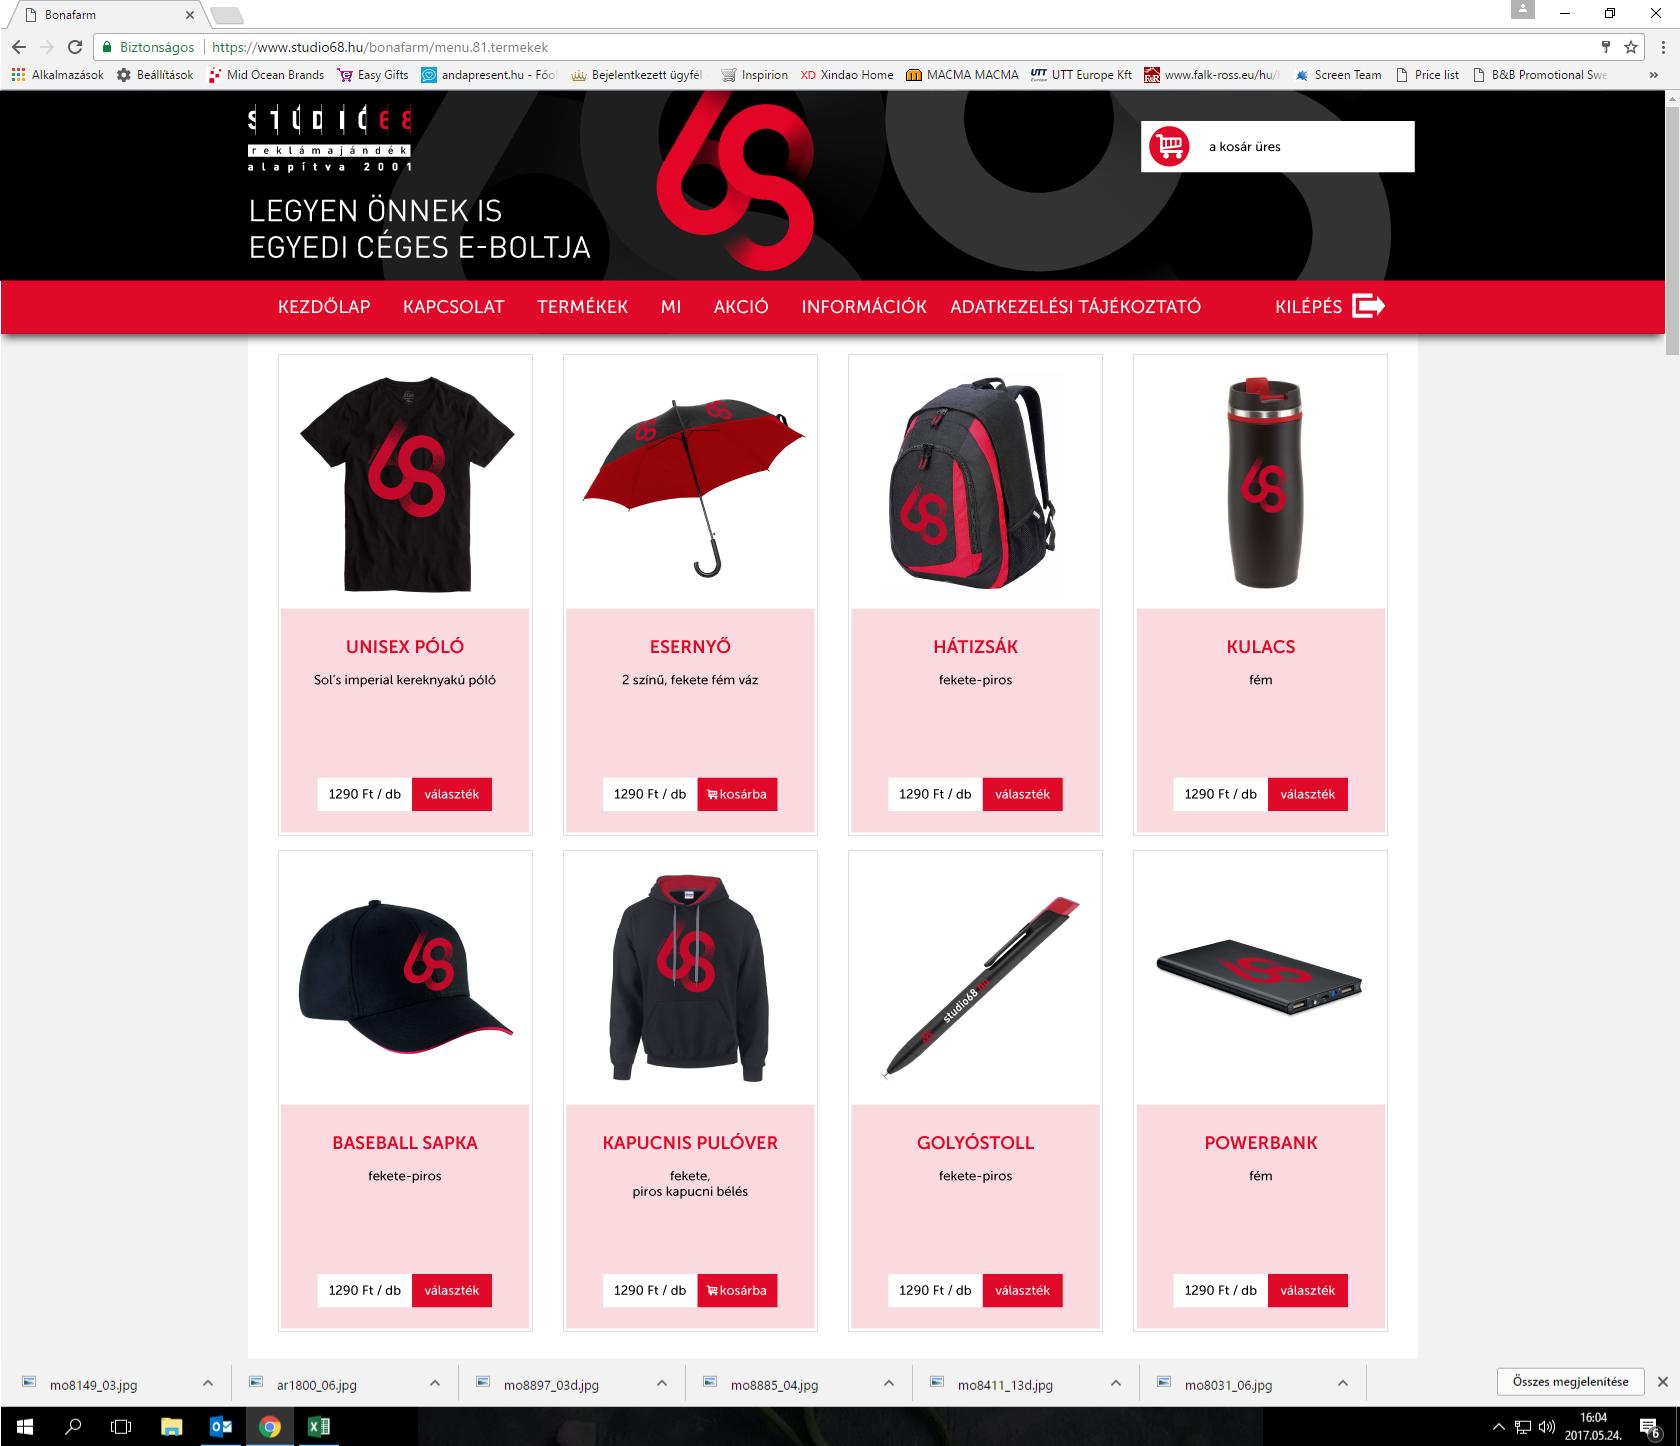
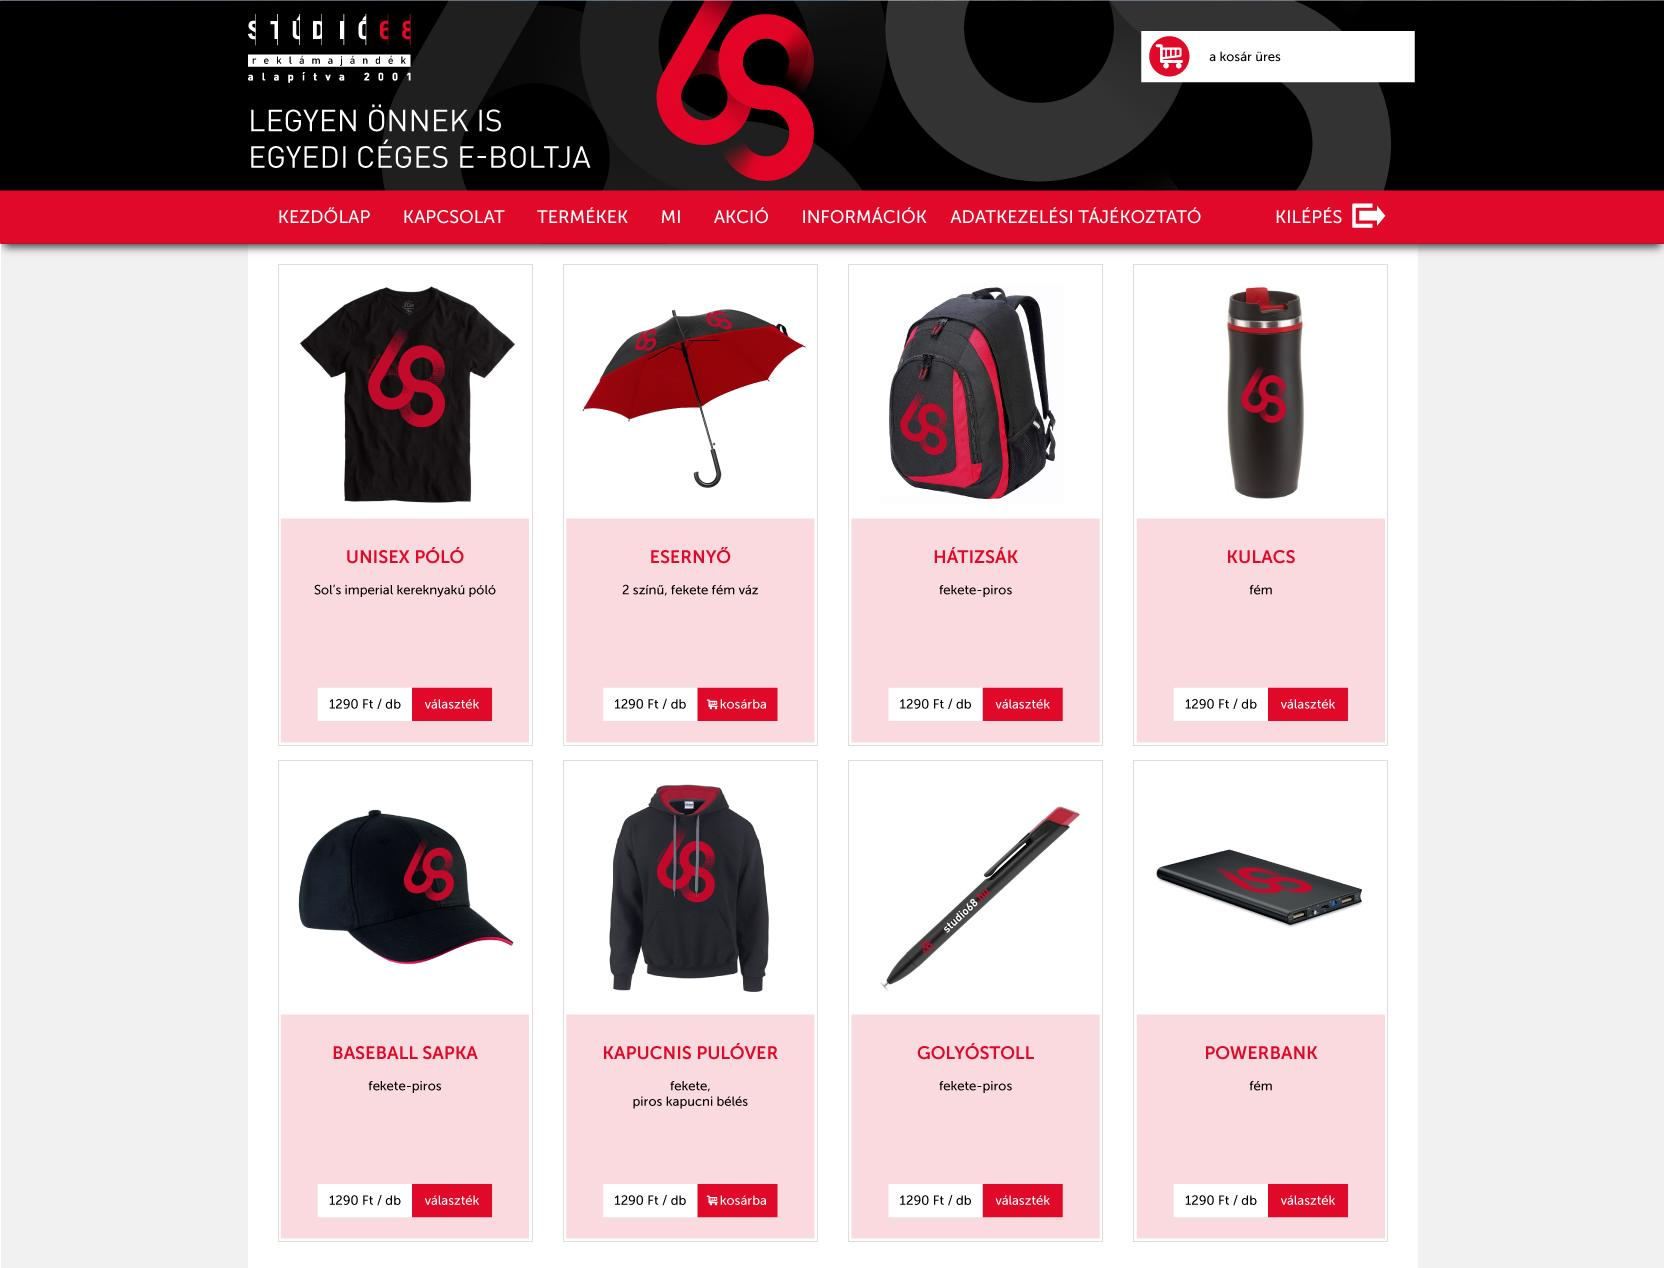
Apro modositasok

diff --git a/res/css/eshop-styles.css b/res/css/eshop-styles.css
@@ -95,3 +95,6 @@ div.container{
     font-size: 4vh;
     cursor: pointer;
 }
+.eshopbig{
+	width:100%;
+}

diff --git a/content/desktop/index.php b/content/desktop/index.php
@@ -89,14 +89,15 @@
        <h1 class="timeline-segment-header">Stúdió<font color="#e00901">68</font></h1>
     </div>
     <div class="summary-block">
-        <b>Egy név - ami kötelez. Több üzletág - ami összehoz.<br></b>
-        Ajándéktárgy? Textil? Emblémázás? ÖKO termékek? Páratlan promóciós finomságok?
-        Nyomda? Saját, dolgozói vagy partner Webshop?<br>Merchandise termékek?
-        Kitelepülés? Egyedi gyártások? Szurkolói kellékek?<br>Konszignációs rendelési lehetőségek?<br/>
-        A válaszunk az, hogy<br/> <b>IGEN, VAN!</b><br/>
-        2001 óta dolgozunk „mások örömére…”<br/>
-        Célunk, hogy folytassuk a munkát, amit elkezdtünk, amihez értünk, amit szeretünk.
-        Sikereink záloga, nem más, mint maga az ÜGYFÉL, azaz ÖN!<br/>Reméljük történetünk, Önnel közösen íródik tovább!
+        <b>Szeretjük a munkánkat és a kihívásokat!</b><br>
+		Hittel, szakértelemmel, innovációval és örömmel tesszük a dolgunk.<br>
+		Szakmailag teljes mértékben elhivatottak vagyunk, e téren nem ismerünk kompromisszumokat!<br>
+		Nevünk alá, több üzletág csoportosul, hogy minél szélesebb ügyféligényeket elégíthessünk ki.<br>
+		Sikereink záloga, nem más, mint maga az ÜGYFÉL, azaz ÖN!<br>
+		Reméljük történetünk, Önnel közösen íródik tovább!<br>
+		<b>Mi ezért dolgozunk 2001 óta „mások örömére…”*</b><br>
+		*mások örömére = szlogenünk hűen tükrözi, hogy kizárólag akkor vagyunk elégedettek a ránk bízott munkákkal,
+		ha mindaz Aki adja és mindaz Aki kapja mosolyog a végén.
     </div>
 </div>
 

diff --git a/content/mobile/index.php b/content/mobile/index.php
@@ -71,14 +71,15 @@
 		 Stúdió<font color="#e00901">68</font>
     </div>
     <div class="summary-block">
-         <b>Egy név - ami kötelez. Több üzletág - ami összehoz.<br></b>
-        Ajándéktárgy? Textil? Emblémázás? ÖKO termékek? Páratlan promóciós finomságok?
-        Nyomda? Saját, dolgozói vagy partner Web shop?<br>Merchandise termékek?
-        Kitelepülés? Egyedi gyártások? Szurkolói kellékek?<br>Konszignációs rendelési lehetőségek?<br/>
-        A válaszunk az, hogy <b>IGEN, VAN!</b><br/>
-        2001 óta dolgozunk „mások örömére…”<br/>
-        Célunk, hogy folytassuk a munkát, amit elkezdtünk, amihez értünk, amit szeretünk.
-        Sikereink záloga, nem más, mint maga az ÜGYFÉL, azaz ÖN!<br/>Reméljük történetünk, Önnel közösen íródik tovább!
+        <b>Szeretjük a munkánkat és a kihívásokat!</b><br>
+		Hittel, szakértelemmel, innovációval és örömmel tesszük a dolgunk.<br>
+		Szakmailag teljes mértékben elhivatottak vagyunk, e téren nem ismerünk kompromisszumokat!<br>
+		Nevünk alá, több üzletág csoportosul, hogy minél szélesebb ügyféligényeket elégíthessünk ki.<br>
+		Sikereink záloga, nem más, mint maga az ÜGYFÉL, azaz ÖN!<br>
+		Reméljük történetünk, Önnel közösen íródik tovább!<br>
+		<b>Mi ezért dolgozunk 2001 óta „mások örömére…”*</b><br>
+		*mások örömére = szlogenünk hűen tükrözi, hogy kizárólag akkor vagyunk elégedettek a ránk bízott munkákkal,
+		ha mindaz Aki adja és mindaz Aki kapja mosolyog a végén.
     </div>
 </div>
 

diff --git a/content/desktop/eshop.php b/content/desktop/eshop.php
@@ -13,9 +13,7 @@
     <div class="container">
         <div class="row" style="padding-right: 5%; padding-left: 5%;">
             <div class="col-md-12">
-              <div class="well" id="eshop">
-				
-              </div>
+               <img class="eshopbig" src='res/img/eshop_big.jpg'/>
             </div>
         </div>
     </div>

diff --git a/content/common/header.php b/content/common/header.php
@@ -3,7 +3,7 @@
 	
 	<?php 
 	//TODO UPDATE VERSION WHEN RELEASE!!
-		$version = 2;
+		$version = 3;
 		if($mobile == true){
 			$css = "mobile-css";
 		}else{
